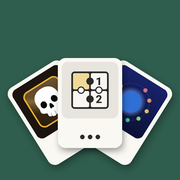
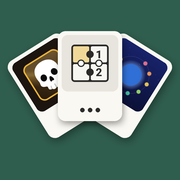
ゲームコレクション: アイコンをAndroidの表示範囲(中央66%)に収め、少し上に配置
Claude-Session: https://claude.ai/code/session_013kTsaeDHdJjMzQp8KtMTm5

diff --git a/sw.js b/sw.js
@@ -1,6 +1,6 @@
 // ゲームコレクション (game list): network first, cache as fallback (offline). Only the list's own files —
 // each game (/kropki/, /dungeon-chain/ …) has its own service worker.
-const C = 'asobiba-v15', OWN = ['/', '/index.html', '/manifest.json', '/icon-192.png', '/icon-512.png', '/apple-touch-icon.png', '/favicon.png', '/icon-maskable-512.png'];
+const C = 'asobiba-v16', OWN = ['/', '/index.html', '/manifest.json', '/icon-192.png', '/icon-512.png', '/apple-touch-icon.png', '/favicon.png', '/icon-maskable-512.png'];
 self.addEventListener('install', e => { e.waitUntil(caches.open(C).then(c => c.addAll(OWN)).then(() => self.skipWaiting())); });
 self.addEventListener('activate', e => { e.waitUntil(caches.keys().then(ks => Promise.all(ks.filter(k => k.startsWith('asobiba-') && k !== C).map(k => caches.delete(k)))).then(() => self.clients.claim())); });
 self.addEventListener('fetch', e => {

diff --git a/index.html b/index.html
@@ -138,7 +138,7 @@ button:active{transform:scale(.97)}
 
 <script>
 (function(){
-var VERSION = '0.4.3';
+var VERSION = '0.4.4';
 var NAME = 'ゲームコレクション';   // the list's name (title, install screen)
 /* ---- the games ---- */
 var GAMES = [
